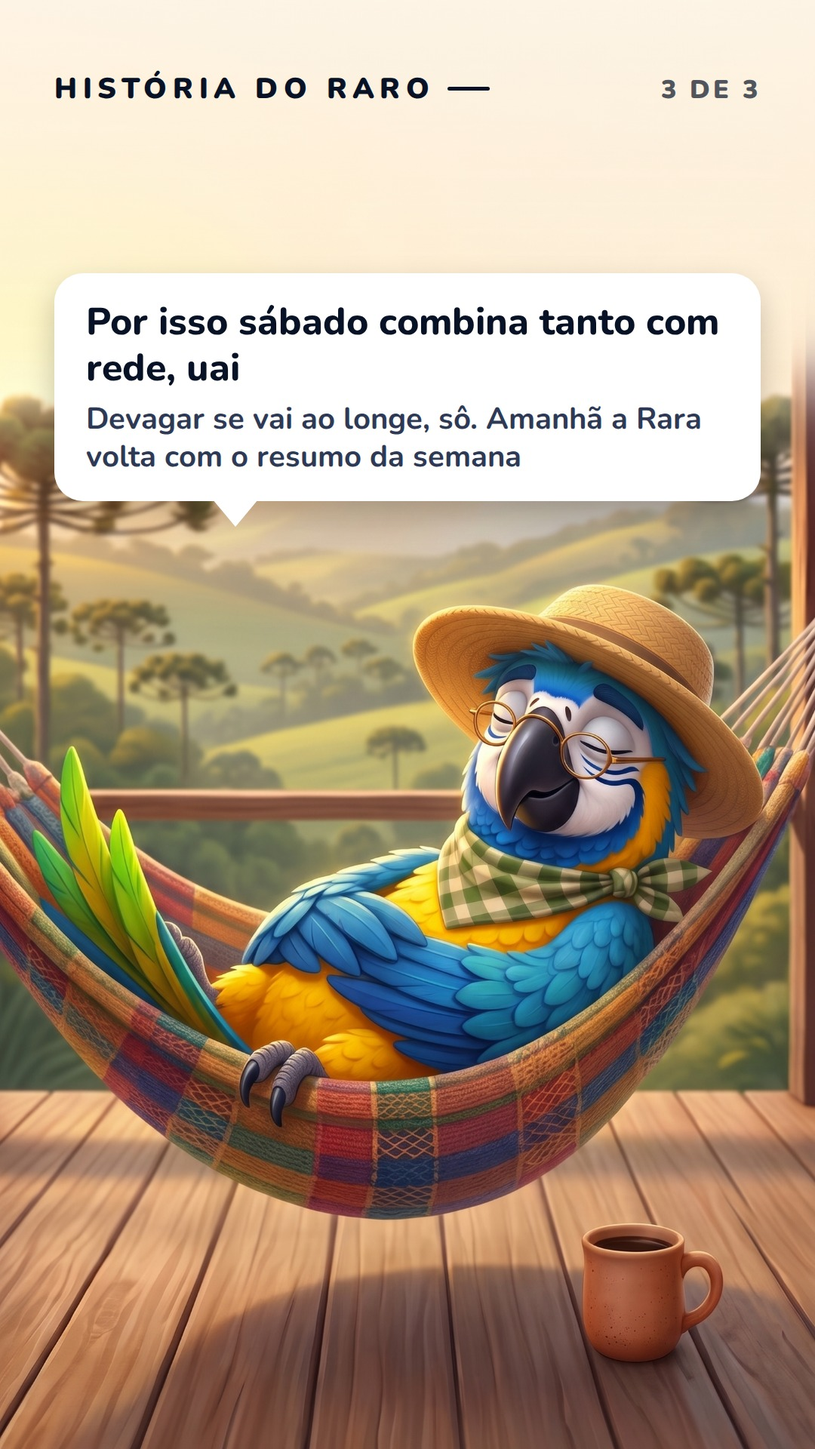
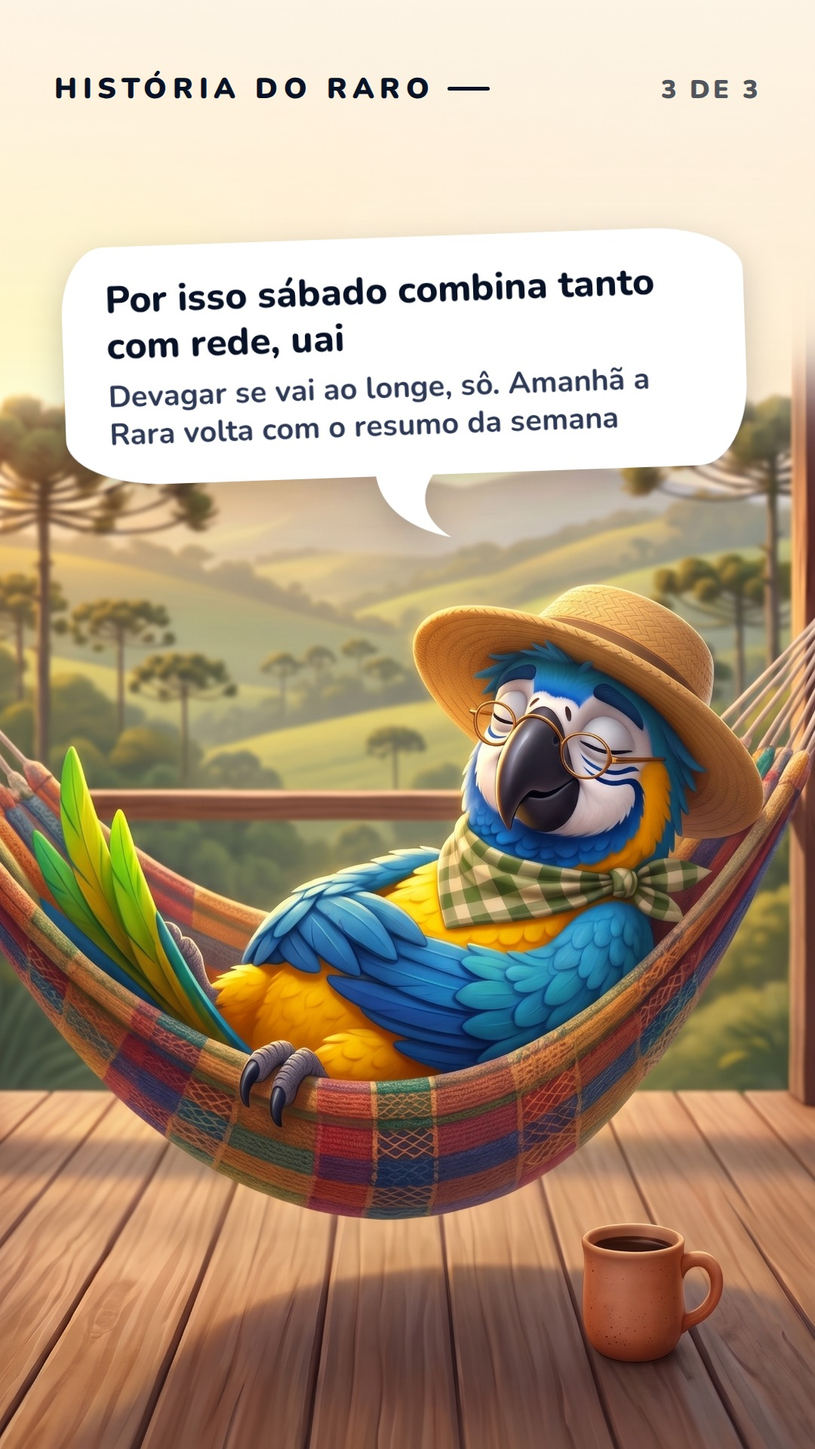
feat(arte): balão de conversa orgânico e com movimento nos stories do Diário; ajuste do texto de segunda

Changed region(s): [[0.0611, 0.1562, 0.9472, 0.375]]

diff --git a/semana1/_scripts/diario_seg_2.html b/semana1/_scripts/diario_seg_2.html
@@ -10,19 +10,22 @@
 .pg{position:absolute;right:72px;top:96px;font-weight:900;font-size:34px;letter-spacing:.12em;opacity:.7}
 .tit{position:absolute;left:72px;right:72px;top:168px;font-family:'Mochiy';font-size:74px;line-height:1.12}
 .tit b{font-weight:400;background:linear-gradient(transparent 55%,#FFC83D 55%,#FFC83D 94%,transparent 94%);padding:0 6px;margin-left:-6px}
-.bal{position:absolute;left:72px;right:72px;background:#fff;border-radius:38px;padding:34px 42px;box-shadow:0 18px 40px rgba(0,0,0,.22);font-weight:800;font-size:50px;line-height:1.22}
+.bal{position:absolute;left:84px;right:92px;background:transparent;padding:40px 58px 42px;font-weight:800;font-size:50px;line-height:1.22;filter:drop-shadow(0 16px 22px rgba(8,18,38,.22));z-index:3;--rad:58px 124px 66px 132px / 92px 58px 112px 62px}
+.bal.r0{transform:rotate(-2deg)}.bal.r1{transform:rotate(1.6deg)}
+.bal::before{content:'';position:absolute;inset:0;top:10px;border-radius:var(--rad);background:#BCD0F5;z-index:-2}
+.bal::after{content:'';position:absolute;inset:0;border-radius:var(--rad);background:#fff;z-index:-1}
 .bal small{display:block;font-weight:700;font-size:40px;line-height:1.25;color:#2E3A55;margin-top:12px}
-.bal::after{content:'';position:absolute;left:210px;bottom:-34px;width:0;height:0;border-left:30px solid transparent;border-right:30px solid transparent;border-top:36px solid #fff}
+.tail{position:absolute;bottom:-88px;width:112px;height:100px;z-index:-1;overflow:visible}
 </style></head><body><div id="post">
 <div class="bg" style="background-image:url('../../semana_23_29_diario/geradas/seg_2.jpg')"></div><div class="veil"></div>
 <div class="sel">DIÁRIO DA RARA</div><div class="pg">2 DE 3</div>
-<div class="bal" id="bal" style=""><div>Aproveitei pra treinar o japonês do trabalho em voz alta. Falei <span style="white-space:nowrap">「お疲れ様です」</span>, que quer dizer “obrigada pelo esforço”, pra uma cadeira vazia</div><small>e a cadeira, claro, não respondeu</small></div></div>
+<div class="bal r1" id="bal"><div>Aproveitei pra treinar o japonês do trabalho em voz alta. Falei <span style="white-space:nowrap">「お疲れ様です」</span>, que quer dizer “obrigada pelo esforço”, pra uma cadeira vazia</div><small>e a cadeira, claro, não respondeu</small><svg class="tail" viewBox="0 0 112 100" style="left:540px;transform:scaleX(-1);"><path d="M8 0 C 8 44 40 80 106 96 C 66 70 62 34 94 0 Z" fill="#fff"/></svg></div></div>
 <script>
 const b=document.getElementById('bal');const topo=613;const bottomMax=topo-80;
 // ancora o balão logo acima do topo do personagem (rabinho 36 px) e deixa crescer para cima
 const tit=document.querySelector('.tit');const minTop=tit?(tit.offsetTop+tit.offsetHeight+28):150;
 let fs=50,sm=40;
-function ajusta(){b.style.fontSize=fs+'px';b.querySelectorAll('small').forEach(e=>{e.style.fontSize=sm+'px'});b.style.top=(bottomMax-36-b.offsetHeight)+'px';}
+function ajusta(){b.style.fontSize=fs+'px';b.querySelectorAll('small').forEach(e=>{e.style.fontSize=sm+'px'});b.style.top=(bottomMax-70-b.offsetHeight)+'px';}
 ajusta();
 while(b.offsetTop<minTop&&fs>40){fs-=2;sm=Math.max(36,sm-2);ajusta();}
 if(b.offsetTop<minTop){b.style.padding='22px 40px';ajusta();}

diff --git a/semana1/_scripts/diario_sex_2.html b/semana1/_scripts/diario_sex_2.html
@@ -10,20 +10,24 @@
 .pg{position:absolute;right:72px;top:96px;font-weight:900;font-size:34px;letter-spacing:.12em;opacity:.7}
 .tit{position:absolute;left:72px;right:72px;top:168px;font-family:'Mochiy';font-size:74px;line-height:1.12}
 .tit b{font-weight:400;background:linear-gradient(transparent 55%,#FFC83D 55%,#FFC83D 94%,transparent 94%);padding:0 6px;margin-left:-6px}
-.bal{position:absolute;left:72px;right:72px;background:#fff;border-radius:38px;padding:34px 42px;box-shadow:0 18px 40px rgba(0,0,0,.22);font-weight:800;font-size:50px;line-height:1.22}
+.bal{position:absolute;left:84px;right:92px;background:transparent;padding:40px 58px 42px;font-weight:800;font-size:50px;line-height:1.22;filter:drop-shadow(0 16px 22px rgba(8,18,38,.22));z-index:3;--rad:58px 124px 66px 132px / 92px 58px 112px 62px}
+.bal.r0{transform:rotate(-2deg)}.bal.r1{transform:rotate(1.6deg)}
+.bal::before{content:'';position:absolute;inset:0;top:10px;border-radius:var(--rad);background:#BCD0F5;z-index:-2}
+.bal::after{content:'';position:absolute;inset:0;border-radius:var(--rad);background:#fff;z-index:-1}
 .bal small{display:block;font-weight:700;font-size:40px;line-height:1.25;color:#2E3A55;margin-top:12px}
-.bal::after{content:'';position:absolute;left:210px;bottom:-34px;width:0;height:0;border-left:30px solid transparent;border-right:30px solid transparent;border-top:36px solid #fff}
+.tail{position:absolute;bottom:-88px;width:112px;height:100px;z-index:-1;overflow:visible}
 </style></head><body><div id="post">
 <div class="bg" style="background-image:url('../../semana_23_29_diario/geradas/sex_2.jpg')"></div><div class="veil"></div>
 <div class="sel">DIÁRIO DA RARA</div><div class="pg">2 DE 3</div>
-<div class="bal" id="bal" style=""><div>Enquanto esperava, aprendi duas palavras em inglês</div><small>“sale” quer dizer liquidação</small><small>“discount” quer dizer desconto</small></div></div>
+<div class="bal r1" id="bal"><div>Enquanto esperava, aprendi duas palavras em inglês</div><small>“sale” quer dizer liquidação</small><small>“discount” quer dizer desconto</small><svg class="tail" viewBox="0 0 112 100" style="left:540px;transform:scaleX(-1);"><path d="M8 0 C 8 44 40 80 106 96 C 66 70 62 34 94 0 Z" fill="#fff"/></svg></div></div>
 <script>
 const b=document.getElementById('bal');const topo=819;const bottomMax=topo-80;
 // ancora o balão logo acima do topo do personagem (rabinho 36 px) e deixa crescer para cima
 const tit=document.querySelector('.tit');const minTop=tit?(tit.offsetTop+tit.offsetHeight+28):150;
 let fs=50,sm=40;
-function ajusta(){b.style.fontSize=fs+'px';b.querySelectorAll('small').forEach(e=>{e.style.fontSize=sm+'px'});b.style.top=(bottomMax-36-b.offsetHeight)+'px';}
+function ajusta(){b.style.fontSize=fs+'px';b.querySelectorAll('small').forEach(e=>{e.style.fontSize=sm+'px'});b.style.top=(bottomMax-70-b.offsetHeight)+'px';}
 ajusta();
 while(b.offsetTop<minTop&&fs>40){fs-=2;sm=Math.max(36,sm-2);ajusta();}
+if(b.offsetTop<minTop){b.style.padding='22px 40px';ajusta();}
 document.title='fs='+fs+' top='+b.offsetTop+' min='+minTop;
 </script></body></html>

diff --git a/semana1/_scripts/diario_sab_2.html b/semana1/_scripts/diario_sab_2.html
@@ -10,20 +10,24 @@
 .pg{position:absolute;right:72px;top:96px;font-weight:900;font-size:34px;letter-spacing:.12em;opacity:.7}
 .tit{position:absolute;left:72px;right:72px;top:168px;font-family:'Mochiy';font-size:74px;line-height:1.12}
 .tit b{font-weight:400;background:linear-gradient(transparent 55%,#FFC83D 55%,#FFC83D 94%,transparent 94%);padding:0 6px;margin-left:-6px}
-.bal{position:absolute;left:72px;right:72px;background:#fff;border-radius:38px;padding:34px 42px;box-shadow:0 18px 40px rgba(0,0,0,.22);font-weight:800;font-size:50px;line-height:1.22}
+.bal{position:absolute;left:84px;right:92px;background:transparent;padding:40px 58px 42px;font-weight:800;font-size:50px;line-height:1.22;filter:drop-shadow(0 16px 22px rgba(8,18,38,.22));z-index:3;--rad:58px 124px 66px 132px / 92px 58px 112px 62px}
+.bal.r0{transform:rotate(-2deg)}.bal.r1{transform:rotate(1.6deg)}
+.bal::before{content:'';position:absolute;inset:0;top:10px;border-radius:var(--rad);background:#BCD0F5;z-index:-2}
+.bal::after{content:'';position:absolute;inset:0;border-radius:var(--rad);background:#fff;z-index:-1}
 .bal small{display:block;font-weight:700;font-size:40px;line-height:1.25;color:#2E3A55;margin-top:12px}
-.bal::after{content:'';position:absolute;left:210px;bottom:-34px;width:0;height:0;border-left:30px solid transparent;border-right:30px solid transparent;border-top:36px solid #fff}
+.tail{position:absolute;bottom:-88px;width:112px;height:100px;z-index:-1;overflow:visible}
 </style></head><body><div id="post">
 <div class="bg" style="background-image:url('../../semana_23_29_diario/geradas/sab_2.jpg')"></div><div class="veil"></div>
 <div class="sel">HISTÓRIA DO RARO</div><div class="pg">2 DE 3</div>
-<div class="bal" id="bal" style=""><div>Ela vem do hebraico, sô, e lá quer dizer “descanso”</div><small>Passou pelo grego e pelo latim até chegar no nosso português</small></div></div>
+<div class="bal r1" id="bal"><div>Ela vem do hebraico, sô, e lá quer dizer “descanso”</div><small>Passou pelo grego e pelo latim até chegar no nosso português</small><svg class="tail" viewBox="0 0 112 100" style="left:540px;transform:scaleX(-1);"><path d="M8 0 C 8 44 40 80 106 96 C 66 70 62 34 94 0 Z" fill="#fff"/></svg></div></div>
 <script>
 const b=document.getElementById('bal');const topo=669;const bottomMax=topo-80;
 // ancora o balão logo acima do topo do personagem (rabinho 36 px) e deixa crescer para cima
 const tit=document.querySelector('.tit');const minTop=tit?(tit.offsetTop+tit.offsetHeight+28):150;
 let fs=50,sm=40;
-function ajusta(){b.style.fontSize=fs+'px';b.querySelectorAll('small').forEach(e=>{e.style.fontSize=sm+'px'});b.style.top=(bottomMax-36-b.offsetHeight)+'px';}
+function ajusta(){b.style.fontSize=fs+'px';b.querySelectorAll('small').forEach(e=>{e.style.fontSize=sm+'px'});b.style.top=(bottomMax-70-b.offsetHeight)+'px';}
 ajusta();
 while(b.offsetTop<minTop&&fs>40){fs-=2;sm=Math.max(36,sm-2);ajusta();}
+if(b.offsetTop<minTop){b.style.padding='22px 40px';ajusta();}
 document.title='fs='+fs+' top='+b.offsetTop+' min='+minTop;
 </script></body></html>

diff --git a/semana1/_scripts/diario_qua_3.html b/semana1/_scripts/diario_qua_3.html
@@ -10,20 +10,24 @@
 .pg{position:absolute;right:72px;top:96px;font-weight:900;font-size:34px;letter-spacing:.12em;opacity:.7}
 .tit{position:absolute;left:72px;right:72px;top:168px;font-family:'Mochiy';font-size:74px;line-height:1.12}
 .tit b{font-weight:400;background:linear-gradient(transparent 55%,#FFC83D 55%,#FFC83D 94%,transparent 94%);padding:0 6px;margin-left:-6px}
-.bal{position:absolute;left:72px;right:72px;background:#fff;border-radius:38px;padding:34px 42px;box-shadow:0 18px 40px rgba(0,0,0,.22);font-weight:800;font-size:50px;line-height:1.22}
+.bal{position:absolute;left:84px;right:92px;background:transparent;padding:40px 58px 42px;font-weight:800;font-size:50px;line-height:1.22;filter:drop-shadow(0 16px 22px rgba(8,18,38,.22));z-index:3;--rad:58px 124px 66px 132px / 92px 58px 112px 62px}
+.bal.r0{transform:rotate(-2deg)}.bal.r1{transform:rotate(1.6deg)}
+.bal::before{content:'';position:absolute;inset:0;top:10px;border-radius:var(--rad);background:#BCD0F5;z-index:-2}
+.bal::after{content:'';position:absolute;inset:0;border-radius:var(--rad);background:#fff;z-index:-1}
 .bal small{display:block;font-weight:700;font-size:40px;line-height:1.25;color:#2E3A55;margin-top:12px}
-.bal::after{content:'';position:absolute;left:210px;bottom:-34px;width:0;height:0;border-left:30px solid transparent;border-right:30px solid transparent;border-top:36px solid #fff}
+.tail{position:absolute;bottom:-88px;width:112px;height:100px;z-index:-1;overflow:visible}
 </style></head><body><div id="post">
 <div class="bg" style="background-image:url('../../semana_23_29_diario/geradas/qua_3_v5.jpg')"></div><div class="veil"></div>
 <div class="sel">DIÁRIO DA RARA</div><div class="pg">3 DE 3</div>
-<div class="bal" id="bal" style=""><div>Agora, antes de falar, eu sempre confiro o ícone do microfone</div><small>E se eu errar de novo, é só tentar outra vez. Bora de novo?</small></div></div>
+<div class="bal r0" id="bal"><div>Agora, antes de falar, eu sempre confiro o ícone do microfone</div><small>E se eu errar de novo, é só tentar outra vez. Bora de novo?</small><svg class="tail" viewBox="0 0 112 100" style="left:400px;"><path d="M8 0 C 8 44 40 80 106 96 C 66 70 62 34 94 0 Z" fill="#fff"/></svg></div></div>
 <script>
 const b=document.getElementById('bal');const topo=589;const bottomMax=topo-80;
 // ancora o balão logo acima do topo do personagem (rabinho 36 px) e deixa crescer para cima
 const tit=document.querySelector('.tit');const minTop=tit?(tit.offsetTop+tit.offsetHeight+28):150;
 let fs=50,sm=40;
-function ajusta(){b.style.fontSize=fs+'px';b.querySelectorAll('small').forEach(e=>{e.style.fontSize=sm+'px'});b.style.top=(bottomMax-36-b.offsetHeight)+'px';}
+function ajusta(){b.style.fontSize=fs+'px';b.querySelectorAll('small').forEach(e=>{e.style.fontSize=sm+'px'});b.style.top=(bottomMax-70-b.offsetHeight)+'px';}
 ajusta();
 while(b.offsetTop<minTop&&fs>40){fs-=2;sm=Math.max(36,sm-2);ajusta();}
+if(b.offsetTop<minTop){b.style.padding='22px 40px';ajusta();}
 document.title='fs='+fs+' top='+b.offsetTop+' min='+minTop;
 </script></body></html>

diff --git a/semana1/_scripts/diario_sab_1.html b/semana1/_scripts/diario_sab_1.html
@@ -10,20 +10,24 @@
 .pg{position:absolute;right:72px;top:96px;font-weight:900;font-size:34px;letter-spacing:.12em;opacity:.7}
 .tit{position:absolute;left:72px;right:72px;top:168px;font-family:'Mochiy';font-size:74px;line-height:1.12}
 .tit b{font-weight:400;background:linear-gradient(transparent 55%,#FFC83D 55%,#FFC83D 94%,transparent 94%);padding:0 6px;margin-left:-6px}
-.bal{position:absolute;left:72px;right:72px;background:#fff;border-radius:38px;padding:34px 42px;box-shadow:0 18px 40px rgba(0,0,0,.22);font-weight:800;font-size:50px;line-height:1.22}
+.bal{position:absolute;left:84px;right:92px;background:transparent;padding:40px 58px 42px;font-weight:800;font-size:50px;line-height:1.22;filter:drop-shadow(0 16px 22px rgba(8,18,38,.22));z-index:3;--rad:58px 124px 66px 132px / 92px 58px 112px 62px}
+.bal.r0{transform:rotate(-2deg)}.bal.r1{transform:rotate(1.6deg)}
+.bal::before{content:'';position:absolute;inset:0;top:10px;border-radius:var(--rad);background:#BCD0F5;z-index:-2}
+.bal::after{content:'';position:absolute;inset:0;border-radius:var(--rad);background:#fff;z-index:-1}
 .bal small{display:block;font-weight:700;font-size:40px;line-height:1.25;color:#2E3A55;margin-top:12px}
-.bal::after{content:'';position:absolute;left:210px;bottom:-34px;width:0;height:0;border-left:30px solid transparent;border-right:30px solid transparent;border-top:36px solid #fff}
+.tail{position:absolute;bottom:-88px;width:112px;height:100px;z-index:-1;overflow:visible}
 </style></head><body><div id="post">
 <div class="bg" style="background-image:url('../../semana_23_29_diario/geradas/sab_raro_v3.jpg')"></div><div class="veil"></div>
 <div class="sel">HISTÓRIA DO RARO</div><div class="pg">1 DE 3</div><div class="tit">De onde vem <b>sábado</b></div>
-<div class="bal" id="bal" style=""><div>Ooooopaaa, bão? Eu sou o Raro, primo da Rara. Hoje é sábado, uai, e ocê sabe de onde vem essa palavra?</div></div></div>
+<div class="bal r0" id="bal"><div>Ooooopaaa, bão? Eu sou o Raro, primo da Rara. Hoje é sábado, uai, e ocê sabe de onde vem essa palavra?</div><svg class="tail" viewBox="0 0 112 100" style="left:400px;"><path d="M8 0 C 8 44 40 80 106 96 C 66 70 62 34 94 0 Z" fill="#fff"/></svg></div></div>
 <script>
 const b=document.getElementById('bal');const topo=669;const bottomMax=topo-80;
 // ancora o balão logo acima do topo do personagem (rabinho 36 px) e deixa crescer para cima
 const tit=document.querySelector('.tit');const minTop=tit?(tit.offsetTop+tit.offsetHeight+28):150;
 let fs=50,sm=40;
-function ajusta(){b.style.fontSize=fs+'px';b.querySelectorAll('small').forEach(e=>{e.style.fontSize=sm+'px'});b.style.top=(bottomMax-36-b.offsetHeight)+'px';}
+function ajusta(){b.style.fontSize=fs+'px';b.querySelectorAll('small').forEach(e=>{e.style.fontSize=sm+'px'});b.style.top=(bottomMax-70-b.offsetHeight)+'px';}
 ajusta();
 while(b.offsetTop<minTop&&fs>40){fs-=2;sm=Math.max(36,sm-2);ajusta();}
+if(b.offsetTop<minTop){b.style.padding='22px 40px';ajusta();}
 document.title='fs='+fs+' top='+b.offsetTop+' min='+minTop;
 </script></body></html>

diff --git a/semana1/_scripts/diario_sab_3.html b/semana1/_scripts/diario_sab_3.html
@@ -10,20 +10,24 @@
 .pg{position:absolute;right:72px;top:96px;font-weight:900;font-size:34px;letter-spacing:.12em;opacity:.7}
 .tit{position:absolute;left:72px;right:72px;top:168px;font-family:'Mochiy';font-size:74px;line-height:1.12}
 .tit b{font-weight:400;background:linear-gradient(transparent 55%,#FFC83D 55%,#FFC83D 94%,transparent 94%);padding:0 6px;margin-left:-6px}
-.bal{position:absolute;left:72px;right:72px;background:#fff;border-radius:38px;padding:34px 42px;box-shadow:0 18px 40px rgba(0,0,0,.22);font-weight:800;font-size:50px;line-height:1.22}
+.bal{position:absolute;left:84px;right:92px;background:transparent;padding:40px 58px 42px;font-weight:800;font-size:50px;line-height:1.22;filter:drop-shadow(0 16px 22px rgba(8,18,38,.22));z-index:3;--rad:58px 124px 66px 132px / 92px 58px 112px 62px}
+.bal.r0{transform:rotate(-2deg)}.bal.r1{transform:rotate(1.6deg)}
+.bal::before{content:'';position:absolute;inset:0;top:10px;border-radius:var(--rad);background:#BCD0F5;z-index:-2}
+.bal::after{content:'';position:absolute;inset:0;border-radius:var(--rad);background:#fff;z-index:-1}
 .bal small{display:block;font-weight:700;font-size:40px;line-height:1.25;color:#2E3A55;margin-top:12px}
-.bal::after{content:'';position:absolute;left:210px;bottom:-34px;width:0;height:0;border-left:30px solid transparent;border-right:30px solid transparent;border-top:36px solid #fff}
+.tail{position:absolute;bottom:-88px;width:112px;height:100px;z-index:-1;overflow:visible}
 </style></head><body><div id="post">
 <div class="bg" style="background-image:url('../../semana_23_29_diario/geradas/sab_3.jpg')"></div><div class="veil"></div>
 <div class="sel">HISTÓRIA DO RARO</div><div class="pg">3 DE 3</div>
-<div class="bal" id="bal" style=""><div>Por isso sábado combina tanto com rede, uai</div><small>Devagar se vai ao longe, sô. Amanhã a Rara volta com o resumo da semana</small></div></div>
+<div class="bal r0" id="bal"><div>Por isso sábado combina tanto com rede, uai</div><small>Devagar se vai ao longe, sô. Amanhã a Rara volta com o resumo da semana</small><svg class="tail" viewBox="0 0 112 100" style="left:400px;"><path d="M8 0 C 8 44 40 80 106 96 C 66 70 62 34 94 0 Z" fill="#fff"/></svg></div></div>
 <script>
 const b=document.getElementById('bal');const topo=780;const bottomMax=topo-80;
 // ancora o balão logo acima do topo do personagem (rabinho 36 px) e deixa crescer para cima
 const tit=document.querySelector('.tit');const minTop=tit?(tit.offsetTop+tit.offsetHeight+28):150;
 let fs=50,sm=40;
-function ajusta(){b.style.fontSize=fs+'px';b.querySelectorAll('small').forEach(e=>{e.style.fontSize=sm+'px'});b.style.top=(bottomMax-36-b.offsetHeight)+'px';}
+function ajusta(){b.style.fontSize=fs+'px';b.querySelectorAll('small').forEach(e=>{e.style.fontSize=sm+'px'});b.style.top=(bottomMax-70-b.offsetHeight)+'px';}
 ajusta();
 while(b.offsetTop<minTop&&fs>40){fs-=2;sm=Math.max(36,sm-2);ajusta();}
+if(b.offsetTop<minTop){b.style.padding='22px 40px';ajusta();}
 document.title='fs='+fs+' top='+b.offsetTop+' min='+minTop;
 </script></body></html>

diff --git a/semana1/_scripts/diario_sex_3.html b/semana1/_scripts/diario_sex_3.html
@@ -10,20 +10,24 @@
 .pg{position:absolute;right:72px;top:96px;font-weight:900;font-size:34px;letter-spacing:.12em;opacity:.7}
 .tit{position:absolute;left:72px;right:72px;top:168px;font-family:'Mochiy';font-size:74px;line-height:1.12}
 .tit b{font-weight:400;background:linear-gradient(transparent 55%,#FFC83D 55%,#FFC83D 94%,transparent 94%);padding:0 6px;margin-left:-6px}
-.bal{position:absolute;left:72px;right:72px;background:#fff;border-radius:38px;padding:34px 42px;box-shadow:0 18px 40px rgba(0,0,0,.22);font-weight:800;font-size:50px;line-height:1.22}
+.bal{position:absolute;left:84px;right:92px;background:transparent;padding:40px 58px 42px;font-weight:800;font-size:50px;line-height:1.22;filter:drop-shadow(0 16px 22px rgba(8,18,38,.22));z-index:3;--rad:58px 124px 66px 132px / 92px 58px 112px 62px}
+.bal.r0{transform:rotate(-2deg)}.bal.r1{transform:rotate(1.6deg)}
+.bal::before{content:'';position:absolute;inset:0;top:10px;border-radius:var(--rad);background:#BCD0F5;z-index:-2}
+.bal::after{content:'';position:absolute;inset:0;border-radius:var(--rad);background:#fff;z-index:-1}
 .bal small{display:block;font-weight:700;font-size:40px;line-height:1.25;color:#2E3A55;margin-top:12px}
-.bal::after{content:'';position:absolute;left:210px;bottom:-34px;width:0;height:0;border-left:30px solid transparent;border-right:30px solid transparent;border-top:36px solid #fff}
+.tail{position:absolute;bottom:-88px;width:112px;height:100px;z-index:-1;overflow:visible}
 </style></head><body><div id="post">
 <div class="bg" style="background-image:url('../../semana_23_29_diario/geradas/sex_3.jpg')"></div><div class="veil"></div>
 <div class="sel">DIÁRIO DA RARA</div><div class="pg">3 DE 3</div>
-<div class="bal" id="bal" style=""><div>No fim, saí da fila só com um suporte de microfone</div><small>Amanhã o meu primo Raro conta uma história</small></div></div>
+<div class="bal r0" id="bal"><div>No fim, saí da fila só com um suporte de microfone</div><small>Amanhã o meu primo Raro conta uma história</small><svg class="tail" viewBox="0 0 112 100" style="left:400px;"><path d="M8 0 C 8 44 40 80 106 96 C 66 70 62 34 94 0 Z" fill="#fff"/></svg></div></div>
 <script>
 const b=document.getElementById('bal');const topo=819;const bottomMax=topo-80;
 // ancora o balão logo acima do topo do personagem (rabinho 36 px) e deixa crescer para cima
 const tit=document.querySelector('.tit');const minTop=tit?(tit.offsetTop+tit.offsetHeight+28):150;
 let fs=50,sm=40;
-function ajusta(){b.style.fontSize=fs+'px';b.querySelectorAll('small').forEach(e=>{e.style.fontSize=sm+'px'});b.style.top=(bottomMax-36-b.offsetHeight)+'px';}
+function ajusta(){b.style.fontSize=fs+'px';b.querySelectorAll('small').forEach(e=>{e.style.fontSize=sm+'px'});b.style.top=(bottomMax-70-b.offsetHeight)+'px';}
 ajusta();
 while(b.offsetTop<minTop&&fs>40){fs-=2;sm=Math.max(36,sm-2);ajusta();}
+if(b.offsetTop<minTop){b.style.padding='22px 40px';ajusta();}
 document.title='fs='+fs+' top='+b.offsetTop+' min='+minTop;
 </script></body></html>

diff --git a/semana1/_scripts/diario_qua_2.html b/semana1/_scripts/diario_qua_2.html
@@ -10,20 +10,24 @@
 .pg{position:absolute;right:72px;top:96px;font-weight:900;font-size:34px;letter-spacing:.12em;opacity:.7}
 .tit{position:absolute;left:72px;right:72px;top:168px;font-family:'Mochiy';font-size:74px;line-height:1.12}
 .tit b{font-weight:400;background:linear-gradient(transparent 55%,#FFC83D 55%,#FFC83D 94%,transparent 94%);padding:0 6px;margin-left:-6px}
-.bal{position:absolute;left:72px;right:72px;background:#fff;border-radius:38px;padding:34px 42px;box-shadow:0 18px 40px rgba(0,0,0,.22);font-weight:800;font-size:50px;line-height:1.22}
+.bal{position:absolute;left:84px;right:92px;background:transparent;padding:40px 58px 42px;font-weight:800;font-size:50px;line-height:1.22;filter:drop-shadow(0 16px 22px rgba(8,18,38,.22));z-index:3;--rad:58px 124px 66px 132px / 92px 58px 112px 62px}
+.bal.r0{transform:rotate(-2deg)}.bal.r1{transform:rotate(1.6deg)}
+.bal::before{content:'';position:absolute;inset:0;top:10px;border-radius:var(--rad);background:#BCD0F5;z-index:-2}
+.bal::after{content:'';position:absolute;inset:0;border-radius:var(--rad);background:#fff;z-index:-1}
 .bal small{display:block;font-weight:700;font-size:40px;line-height:1.25;color:#2E3A55;margin-top:12px}
-.bal::after{content:'';position:absolute;left:210px;bottom:-34px;width:0;height:0;border-left:30px solid transparent;border-right:30px solid transparent;border-top:36px solid #fff}
+.tail{position:absolute;bottom:-88px;width:112px;height:100px;z-index:-1;overflow:visible}
 </style></head><body><div id="post">
 <div class="bg" style="background-image:url('../../semana_23_29_diario/geradas/qua_2_v4.jpg')"></div><div class="veil"></div>
 <div class="sel">DIÁRIO DA RARA</div><div class="pg">2 DE 3</div>
-<div class="bal" id="bal" style=""><div>Falei por dez minutos seguidos. Só que o meu microfone estava no mudo, então ninguém me ouviu</div></div></div>
+<div class="bal r1" id="bal"><div>Falei por dez minutos seguidos. Só que o meu microfone estava no mudo, então ninguém me ouviu</div><svg class="tail" viewBox="0 0 112 100" style="left:540px;transform:scaleX(-1);"><path d="M8 0 C 8 44 40 80 106 96 C 66 70 62 34 94 0 Z" fill="#fff"/></svg></div></div>
 <script>
 const b=document.getElementById('bal');const topo=520;const bottomMax=topo-80;
 // ancora o balão logo acima do topo do personagem (rabinho 36 px) e deixa crescer para cima
 const tit=document.querySelector('.tit');const minTop=tit?(tit.offsetTop+tit.offsetHeight+28):150;
 let fs=50,sm=40;
-function ajusta(){b.style.fontSize=fs+'px';b.querySelectorAll('small').forEach(e=>{e.style.fontSize=sm+'px'});b.style.top=(bottomMax-36-b.offsetHeight)+'px';}
+function ajusta(){b.style.fontSize=fs+'px';b.querySelectorAll('small').forEach(e=>{e.style.fontSize=sm+'px'});b.style.top=(bottomMax-70-b.offsetHeight)+'px';}
 ajusta();
 while(b.offsetTop<minTop&&fs>40){fs-=2;sm=Math.max(36,sm-2);ajusta();}
+if(b.offsetTop<minTop){b.style.padding='22px 40px';ajusta();}
 document.title='fs='+fs+' top='+b.offsetTop+' min='+minTop;
 </script></body></html>

diff --git a/semana1/_scripts/diario_qua_1.html b/semana1/_scripts/diario_qua_1.html
@@ -10,20 +10,24 @@
 .pg{position:absolute;right:72px;top:96px;font-weight:900;font-size:34px;letter-spacing:.12em;opacity:.7}
 .tit{position:absolute;left:72px;right:72px;top:168px;font-family:'Mochiy';font-size:74px;line-height:1.12}
 .tit b{font-weight:400;background:linear-gradient(transparent 55%,#FFC83D 55%,#FFC83D 94%,transparent 94%);padding:0 6px;margin-left:-6px}
-.bal{position:absolute;left:72px;right:72px;background:#fff;border-radius:38px;padding:34px 42px;box-shadow:0 18px 40px rgba(0,0,0,.22);font-weight:800;font-size:50px;line-height:1.22}
+.bal{position:absolute;left:84px;right:92px;background:transparent;padding:40px 58px 42px;font-weight:800;font-size:50px;line-height:1.22;filter:drop-shadow(0 16px 22px rgba(8,18,38,.22));z-index:3;--rad:58px 124px 66px 132px / 92px 58px 112px 62px}
+.bal.r0{transform:rotate(-2deg)}.bal.r1{transform:rotate(1.6deg)}
+.bal::before{content:'';position:absolute;inset:0;top:10px;border-radius:var(--rad);background:#BCD0F5;z-index:-2}
+.bal::after{content:'';position:absolute;inset:0;border-radius:var(--rad);background:#fff;z-index:-1}
 .bal small{display:block;font-weight:700;font-size:40px;line-height:1.25;color:#2E3A55;margin-top:12px}
-.bal::after{content:'';position:absolute;left:210px;bottom:-34px;width:0;height:0;border-left:30px solid transparent;border-right:30px solid transparent;border-top:36px solid #fff}
+.tail{position:absolute;bottom:-88px;width:112px;height:100px;z-index:-1;overflow:visible}
 </style></head><body><div id="post">
 <div class="bg" style="background-image:url('../../semana_23_29_diario/geradas/qua_call_v5.jpg')"></div><div class="veil"></div>
 <div class="sel">DIÁRIO DA RARA</div><div class="pg">1 DE 3</div><div class="tit">A call que <b>só eu</b> ouvi</div>
-<div class="bal" id="bal" style=""><div>Hoje às 10h eu tinha uma call importante e acordei muito inspirada</div></div></div>
+<div class="bal r0" id="bal"><div>Hoje às 10h eu tinha uma call importante e acordei muito inspirada</div><svg class="tail" viewBox="0 0 112 100" style="left:400px;"><path d="M8 0 C 8 44 40 80 106 96 C 66 70 62 34 94 0 Z" fill="#fff"/></svg></div></div>
 <script>
 const b=document.getElementById('bal');const topo=589;const bottomMax=topo-80;
 // ancora o balão logo acima do topo do personagem (rabinho 36 px) e deixa crescer para cima
 const tit=document.querySelector('.tit');const minTop=tit?(tit.offsetTop+tit.offsetHeight+28):150;
 let fs=50,sm=40;
-function ajusta(){b.style.fontSize=fs+'px';b.querySelectorAll('small').forEach(e=>{e.style.fontSize=sm+'px'});b.style.top=(bottomMax-36-b.offsetHeight)+'px';}
+function ajusta(){b.style.fontSize=fs+'px';b.querySelectorAll('small').forEach(e=>{e.style.fontSize=sm+'px'});b.style.top=(bottomMax-70-b.offsetHeight)+'px';}
 ajusta();
 while(b.offsetTop<minTop&&fs>40){fs-=2;sm=Math.max(36,sm-2);ajusta();}
+if(b.offsetTop<minTop){b.style.padding='22px 40px';ajusta();}
 document.title='fs='+fs+' top='+b.offsetTop+' min='+minTop;
 </script></body></html>

diff --git a/semana1/_scripts/diario_sex_1.html b/semana1/_scripts/diario_sex_1.html
@@ -10,20 +10,24 @@
 .pg{position:absolute;right:72px;top:96px;font-weight:900;font-size:34px;letter-spacing:.12em;opacity:.7}
 .tit{position:absolute;left:72px;right:72px;top:168px;font-family:'Mochiy';font-size:74px;line-height:1.12}
 .tit b{font-weight:400;background:linear-gradient(transparent 55%,#FFC83D 55%,#FFC83D 94%,transparent 94%);padding:0 6px;margin-left:-6px}
-.bal{position:absolute;left:72px;right:72px;background:#fff;border-radius:38px;padding:34px 42px;box-shadow:0 18px 40px rgba(0,0,0,.22);font-weight:800;font-size:50px;line-height:1.22}
+.bal{position:absolute;left:84px;right:92px;background:transparent;padding:40px 58px 42px;font-weight:800;font-size:50px;line-height:1.22;filter:drop-shadow(0 16px 22px rgba(8,18,38,.22));z-index:3;--rad:58px 124px 66px 132px / 92px 58px 112px 62px}
+.bal.r0{transform:rotate(-2deg)}.bal.r1{transform:rotate(1.6deg)}
+.bal::before{content:'';position:absolute;inset:0;top:10px;border-radius:var(--rad);background:#BCD0F5;z-index:-2}
+.bal::after{content:'';position:absolute;inset:0;border-radius:var(--rad);background:#fff;z-index:-1}
 .bal small{display:block;font-weight:700;font-size:40px;line-height:1.25;color:#2E3A55;margin-top:12px}
-.bal::after{content:'';position:absolute;left:210px;bottom:-34px;width:0;height:0;border-left:30px solid transparent;border-right:30px solid transparent;border-top:36px solid #fff}
+.tail{position:absolute;bottom:-88px;width:112px;height:100px;z-index:-1;overflow:visible}
 </style></head><body><div id="post">
 <div class="bg" style="background-image:url('../../semana_23_29_diario/geradas/sex_fila_v1.jpg')"></div><div class="veil"></div>
 <div class="sel">DIÁRIO DA RARA</div><div class="pg">1 DE 3</div><div class="tit">A <b>fila</b> da Black Friday</div>
-<div class="bal" id="bal" style=""><div>A fila da loja deu duas voltas no quarteirão, e eu fiquei nela</div></div></div>
+<div class="bal r0" id="bal"><div>A fila da loja deu duas voltas no quarteirão, e eu fiquei nela</div><svg class="tail" viewBox="0 0 112 100" style="left:400px;"><path d="M8 0 C 8 44 40 80 106 96 C 66 70 62 34 94 0 Z" fill="#fff"/></svg></div></div>
 <script>
 const b=document.getElementById('bal');const topo=819;const bottomMax=topo-80;
 // ancora o balão logo acima do topo do personagem (rabinho 36 px) e deixa crescer para cima
 const tit=document.querySelector('.tit');const minTop=tit?(tit.offsetTop+tit.offsetHeight+28):150;
 let fs=50,sm=40;
-function ajusta(){b.style.fontSize=fs+'px';b.querySelectorAll('small').forEach(e=>{e.style.fontSize=sm+'px'});b.style.top=(bottomMax-36-b.offsetHeight)+'px';}
+function ajusta(){b.style.fontSize=fs+'px';b.querySelectorAll('small').forEach(e=>{e.style.fontSize=sm+'px'});b.style.top=(bottomMax-70-b.offsetHeight)+'px';}
 ajusta();
 while(b.offsetTop<minTop&&fs>40){fs-=2;sm=Math.max(36,sm-2);ajusta();}
+if(b.offsetTop<minTop){b.style.padding='22px 40px';ajusta();}
 document.title='fs='+fs+' top='+b.offsetTop+' min='+minTop;
 </script></body></html>

diff --git a/semana1/_scripts/diario_seg_1.html b/semana1/_scripts/diario_seg_1.html
@@ -10,19 +10,22 @@
 .pg{position:absolute;right:72px;top:96px;font-weight:900;font-size:34px;letter-spacing:.12em;opacity:.7}
 .tit{position:absolute;left:72px;right:72px;top:168px;font-family:'Mochiy';font-size:74px;line-height:1.12}
 .tit b{font-weight:400;background:linear-gradient(transparent 55%,#FFC83D 55%,#FFC83D 94%,transparent 94%);padding:0 6px;margin-left:-6px}
-.bal{position:absolute;left:72px;right:72px;background:#fff;border-radius:38px;padding:34px 42px;box-shadow:0 18px 40px rgba(0,0,0,.22);font-weight:800;font-size:50px;line-height:1.22}
+.bal{position:absolute;left:84px;right:92px;background:transparent;padding:40px 58px 42px;font-weight:800;font-size:50px;line-height:1.22;filter:drop-shadow(0 16px 22px rgba(8,18,38,.22));z-index:3;--rad:58px 124px 66px 132px / 92px 58px 112px 62px}
+.bal.r0{transform:rotate(-2deg)}.bal.r1{transform:rotate(1.6deg)}
+.bal::before{content:'';position:absolute;inset:0;top:10px;border-radius:var(--rad);background:#BCD0F5;z-index:-2}
+.bal::after{content:'';position:absolute;inset:0;border-radius:var(--rad);background:#fff;z-index:-1}
 .bal small{display:block;font-weight:700;font-size:40px;line-height:1.25;color:#2E3A55;margin-top:12px}
-.bal::after{content:'';position:absolute;left:210px;bottom:-34px;width:0;height:0;border-left:30px solid transparent;border-right:30px solid transparent;border-top:36px solid #fff}
+.tail{position:absolute;bottom:-88px;width:112px;height:100px;z-index:-1;overflow:visible}
 </style></head><body><div id="post">
 <div class="bg" style="background-image:url('../../semana_23_29_diario/geradas/seg_escritorio_v1.jpg')"></div><div class="veil"></div>
 <div class="sel">DIÁRIO DA RARA</div><div class="pg">1 DE 3</div><div class="tit">Cheguei <b>primeiro</b></div>
-<div class="bal" id="bal" style=""><div>Hoje eu cheguei às 7h e o escritório inteiro estava vazio, só pra mim</div></div></div>
+<div class="bal r0" id="bal"><div>Hoje eu cheguei às 7h e o escritório inteiro estava vazio, só pra mim</div><svg class="tail" viewBox="0 0 112 100" style="left:400px;"><path d="M8 0 C 8 44 40 80 106 96 C 66 70 62 34 94 0 Z" fill="#fff"/></svg></div></div>
 <script>
 const b=document.getElementById('bal');const topo=613;const bottomMax=topo-80;
 // ancora o balão logo acima do topo do personagem (rabinho 36 px) e deixa crescer para cima
 const tit=document.querySelector('.tit');const minTop=tit?(tit.offsetTop+tit.offsetHeight+28):150;
 let fs=50,sm=40;
-function ajusta(){b.style.fontSize=fs+'px';b.querySelectorAll('small').forEach(e=>{e.style.fontSize=sm+'px'});b.style.top=(bottomMax-36-b.offsetHeight)+'px';}
+function ajusta(){b.style.fontSize=fs+'px';b.querySelectorAll('small').forEach(e=>{e.style.fontSize=sm+'px'});b.style.top=(bottomMax-70-b.offsetHeight)+'px';}
 ajusta();
 while(b.offsetTop<minTop&&fs>40){fs-=2;sm=Math.max(36,sm-2);ajusta();}
 if(b.offsetTop<minTop){b.style.padding='22px 40px';ajusta();}

diff --git a/semana1/_scripts/diario_dom_3.html b/semana1/_scripts/diario_dom_3.html
@@ -10,19 +10,22 @@
 .pg{position:absolute;right:72px;top:96px;font-weight:900;font-size:34px;letter-spacing:.12em;opacity:.7}
 .tit{position:absolute;left:72px;right:72px;top:168px;font-family:'Mochiy';font-size:74px;line-height:1.12}
 .tit b{font-weight:400;background:linear-gradient(transparent 55%,#FFC83D 55%,#FFC83D 94%,transparent 94%);padding:0 6px;margin-left:-6px}
-.bal{position:absolute;left:72px;right:72px;background:#fff;border-radius:38px;padding:34px 42px;box-shadow:0 18px 40px rgba(0,0,0,.22);font-weight:800;font-size:50px;line-height:1.22}
+.bal{position:absolute;left:84px;right:92px;background:transparent;padding:40px 58px 42px;font-weight:800;font-size:50px;line-height:1.22;filter:drop-shadow(0 16px 22px rgba(8,18,38,.22));z-index:3;--rad:58px 124px 66px 132px / 92px 58px 112px 62px}
+.bal.r0{transform:rotate(-2deg)}.bal.r1{transform:rotate(1.6deg)}
+.bal::before{content:'';position:absolute;inset:0;top:10px;border-radius:var(--rad);background:#BCD0F5;z-index:-2}
+.bal::after{content:'';position:absolute;inset:0;border-radius:var(--rad);background:#fff;z-index:-1}
 .bal small{display:block;font-weight:700;font-size:40px;line-height:1.25;color:#2E3A55;margin-top:12px}
-.bal::after{content:'';position:absolute;left:210px;bottom:-34px;width:0;height:0;border-left:30px solid transparent;border-right:30px solid transparent;border-top:36px solid #fff}
+.tail{position:absolute;bottom:-88px;width:112px;height:100px;z-index:-1;overflow:visible}
 </style></head><body><div id="post">
 <div class="bg" style="background-image:url('../../semana_23_29_diario/geradas/dom_3.jpg')"></div><div class="veil"></div>
 <div class="sel">DIÁRIO DA RARA</div><div class="pg">3 DE 3</div>
-<div class="bal" id="bal" style=""><div>E tudo bem, porque é errando que a gente aprende</div><small>Segunda tem mais. Bora de novo?</small></div></div>
+<div class="bal r0" id="bal"><div>E tudo bem, porque é errando que a gente aprende</div><small>Segunda tem mais. Bora de novo?</small><svg class="tail" viewBox="0 0 112 100" style="left:400px;"><path d="M8 0 C 8 44 40 80 106 96 C 66 70 62 34 94 0 Z" fill="#fff"/></svg></div></div>
 <script>
 const b=document.getElementById('bal');const topo=648;const bottomMax=topo-80;
 // ancora o balão logo acima do topo do personagem (rabinho 36 px) e deixa crescer para cima
 const tit=document.querySelector('.tit');const minTop=tit?(tit.offsetTop+tit.offsetHeight+28):150;
 let fs=50,sm=40;
-function ajusta(){b.style.fontSize=fs+'px';b.querySelectorAll('small').forEach(e=>{e.style.fontSize=sm+'px'});b.style.top=(bottomMax-36-b.offsetHeight)+'px';}
+function ajusta(){b.style.fontSize=fs+'px';b.querySelectorAll('small').forEach(e=>{e.style.fontSize=sm+'px'});b.style.top=(bottomMax-70-b.offsetHeight)+'px';}
 ajusta();
 while(b.offsetTop<minTop&&fs>40){fs-=2;sm=Math.max(36,sm-2);ajusta();}
 if(b.offsetTop<minTop){b.style.padding='22px 40px';ajusta();}
